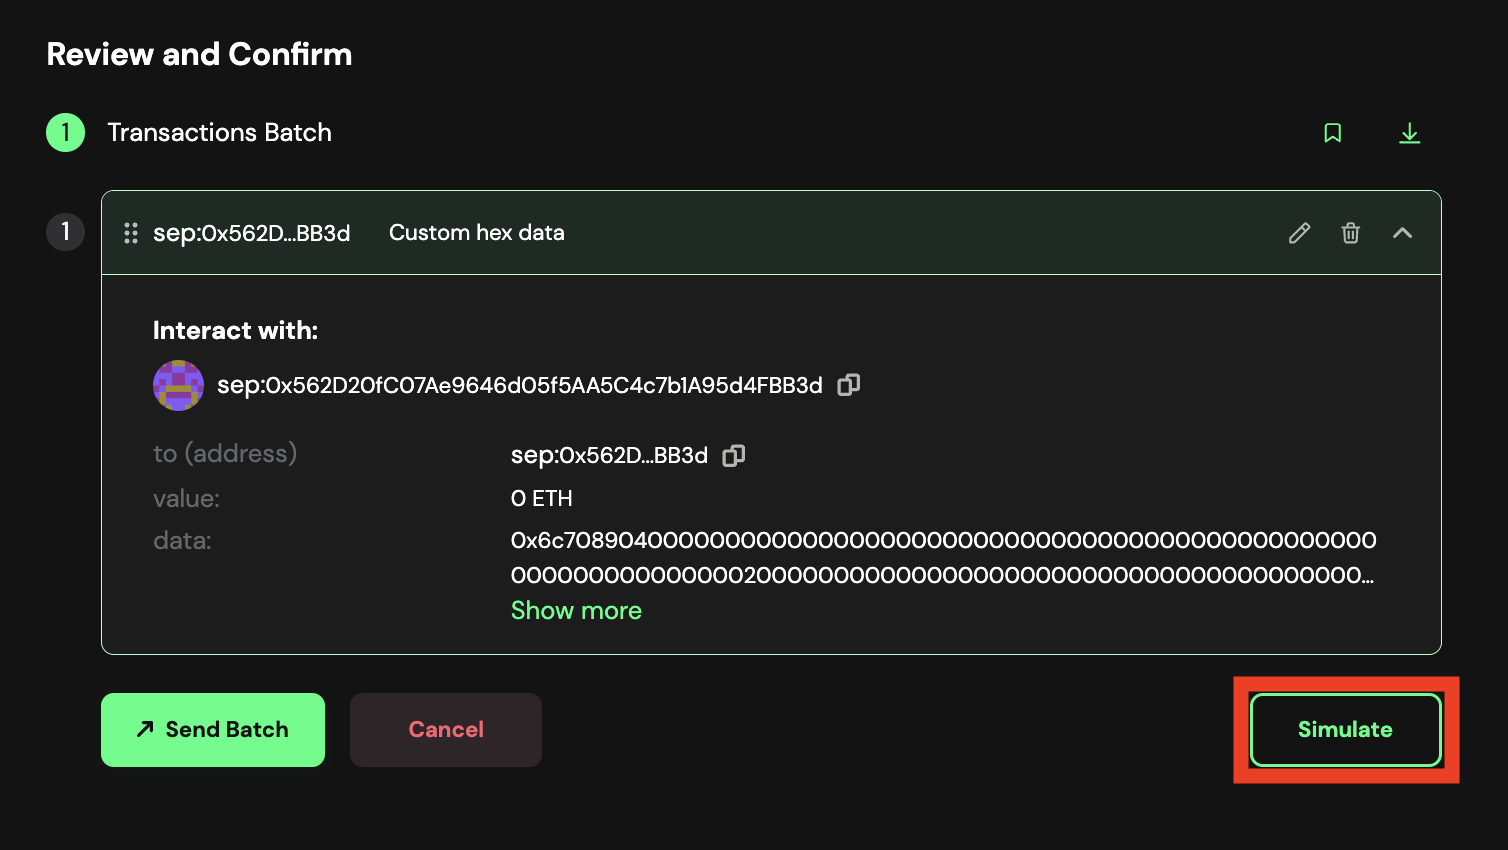
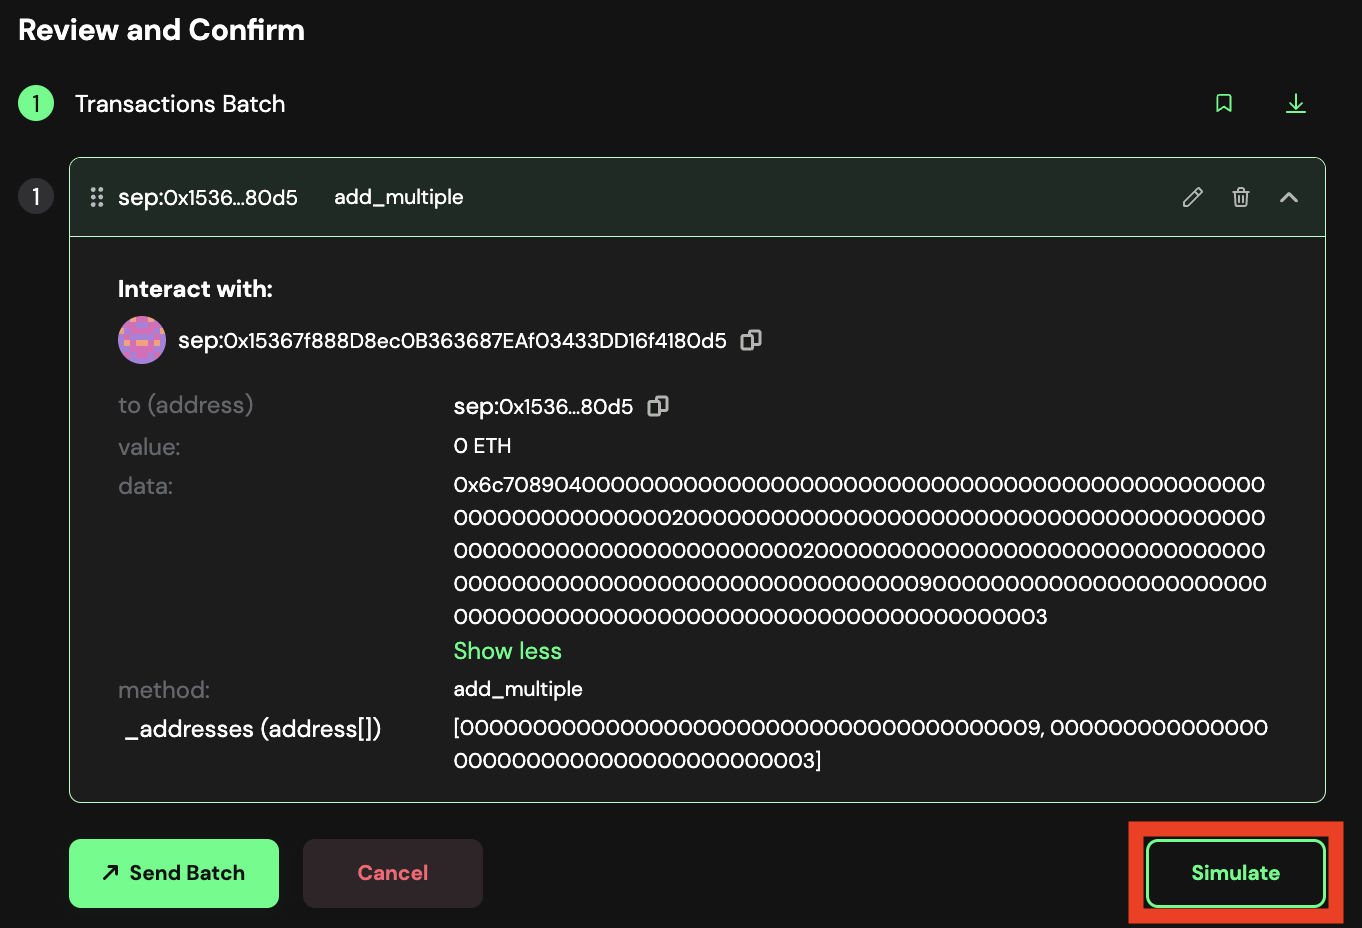
updates + works on sepolia

diff --git a/docs/0_internal/5_b_1_propose_whitelist.md b/docs/0_internal/5_b_1_propose_whitelist.md
@@ -20,31 +20,19 @@ To propose the pause transaction you can follow the steps below:
 
 3. Get the `registryCoordinator` address from ```contracts/script/output/mainnet/alignedlayer_deployment_output.json``` or ```contracts/script/output/holesky/alignedlayer_deployment_output.json``` or ```contracts/script/output/sepolia/alignedlayer_deployment_output.json```
 
-4. Generate the call data for function to white list an operator ```add_multiple(address[])``` by running:
+4. Paste the `registryCoordinator` address on `Enter Address or ENS Name`
+
+   ![](./images/5_b_1_whitelist_operator_3.png)
+
+5. As this is a Proxy contract, choose `Use Implementation ABI`
+
+   ![Use Implementation ABI](./images/5_b_1_whitelist_operator_4.png)
+
+If `Use Implementation ABI`, did not show up you will need to submit the call via raw calldata. Consult this this alternative [guide](./5_b_1b_propose_whitelist_with_call_data.md)
    
-   ```bash
-   cast calldata "add_multiple(address[])" "[<OPERATOR_ADDRESS>, ...]"
-   ```
-   
-   For example:
-   ```bash
-   cast calldata "add_multiple(address[])" "[0x0000000000000000000000000000000000000009, 0x0000000000000000000000000000000000000003]"
-   ```
[1 lines of base64/hex data omitted]
+6. In `contract method selector` choose `add_multiple()` in the `_addresses(address[])` field, enter the operator addresses in the following format `[<OPERATOR_ADDRESS>, ..., <OPERATOR_ADDRESS>]` for example, `[0000000000000000000000000000000000000009, 0000000000000000000000000000000000000003]`
 
-   Confirm the calldata starts with the correct function identifier ```0x6c708904```.
-
-5. Paste the `registryCoordinator` address on `Enter Address or ENS Name`
-
-   ![alt text](./images/5_b_1_whitelist_operator_3.png)
-
- , and turn on the `Custom Data` flag.
-
-   ![alt text](./images/5_b_1_whitelist_operator_4.png)
-
-6. In `Data` field paste the previously generated call data from step 4. Also check the `To Address` is the correct `registryCoordinator` address, and the `ETH value` should be set to `0`.
-
-   ![alt text](./images/5_b_1_whitelist_operator_5.png) 
+   ![Choose the add_multiple()](./images/5_b_1_whitelist_operator_5.png)
 
 7. Click on `+ Add new transaction`
 

diff --git a/docs/0_internal/5_b_1b_propose_whitelist_with_call_data.md b/docs/0_internal/5_b_1b_propose_whitelist_with_call_data.md
@@ -1,0 +1,20 @@
+Turn on the `Custom Data` flag.
+     ![alt text](./images/5_b_1b_whitelist_operator_with_call_data_1.png)
+
+Generate the call data for function to white list an operator ```add_multiple(address[])``` by running:
+
+```bash
+cast calldata "add_multiple(address[])" "[<OPERATOR_ADDRESS>, ...]"
+```
+
+For example:
+```bash
+cast calldata "add_multiple(address[])" "[0x0000000000000000000000000000000000000009, 0x0000000000000000000000000000000000000003]"
+```
[1 lines of base64/hex data omitted]
+
+Confirm the calldata starts with the correct function identifier ```0x6c708904```.
+
+In `Data` field paste the previously generated call data. Also check the `To Address` is the correct `registryCoordinator` address, and the `ETH value` should be set to `0`.
+
+   ![alt text](./images/5_b_1b_whitelist_operator_with_call_data_2.png) 
